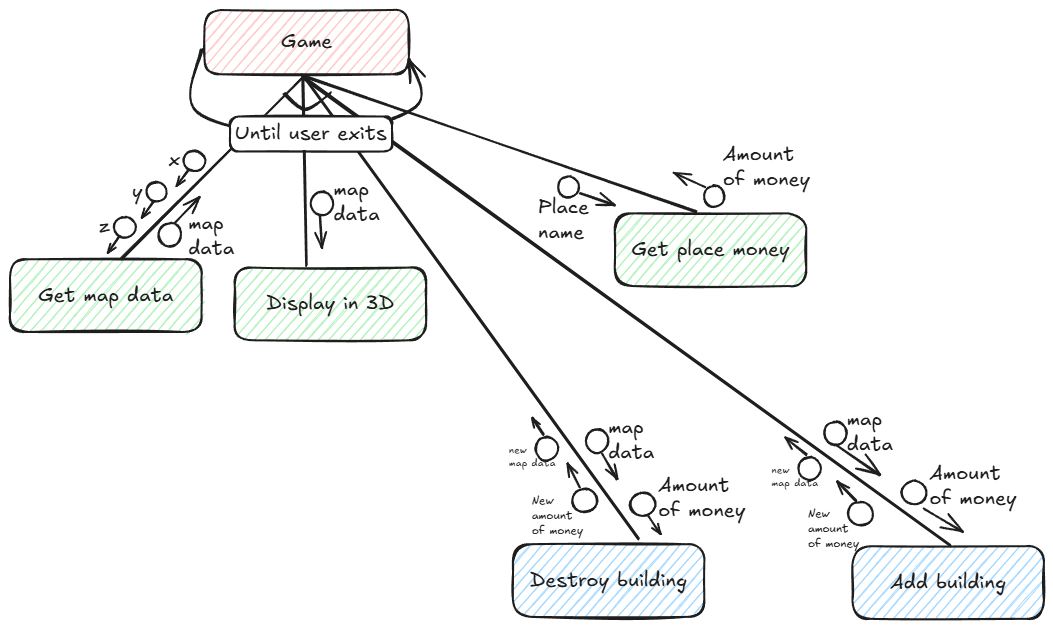
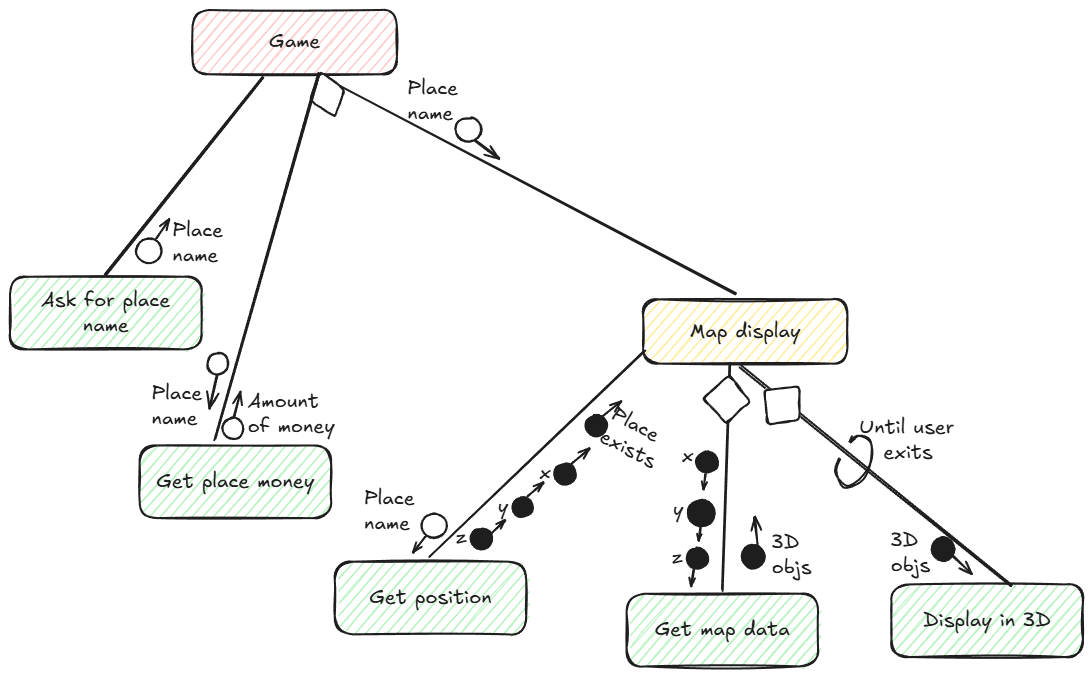
Made the structure chart better!
Now the documentation is more complete; I have given up on the 3d buildings as they are too hard and will take too long.
Next I'll work more on the docs.

diff --git a/theory/DEVELOPMENT.md b/theory/DEVELOPMENT.md
@@ -27,14 +27,14 @@ gantt
         Determining specifications & requirements   :24-02-25, 26-02-25
         Finding the right API        :26-02-25, 03-03-25
     section Development
-        Making POCs (integration)    :26-02-25, 03-03-25
+        Making Proof Of Concepts (integration)    :26-02-25, 03-03-25
         Work on main program         :03-03-25, 15-03-25
         Finish main program          :milestone, crit, dne, 15-03-25, 0d
     section Maintenance
         Ensuring the API still works :after dne, 5d
 ```
 ## Structure chart
-![https://excalidraw.com/#json=TanUcKfRZK3sFyNSI8kkv,OGm_RV8n3kSjwTS60DsOgQ](structchart.png)
+![https://excalidraw.com/#json=GC8AWBBpy3yUbl4ZATDmA,3BjGYwydkUTXpUBeDXqDBg](structchart.png)
 ## Algorithms
 ```js
 START
